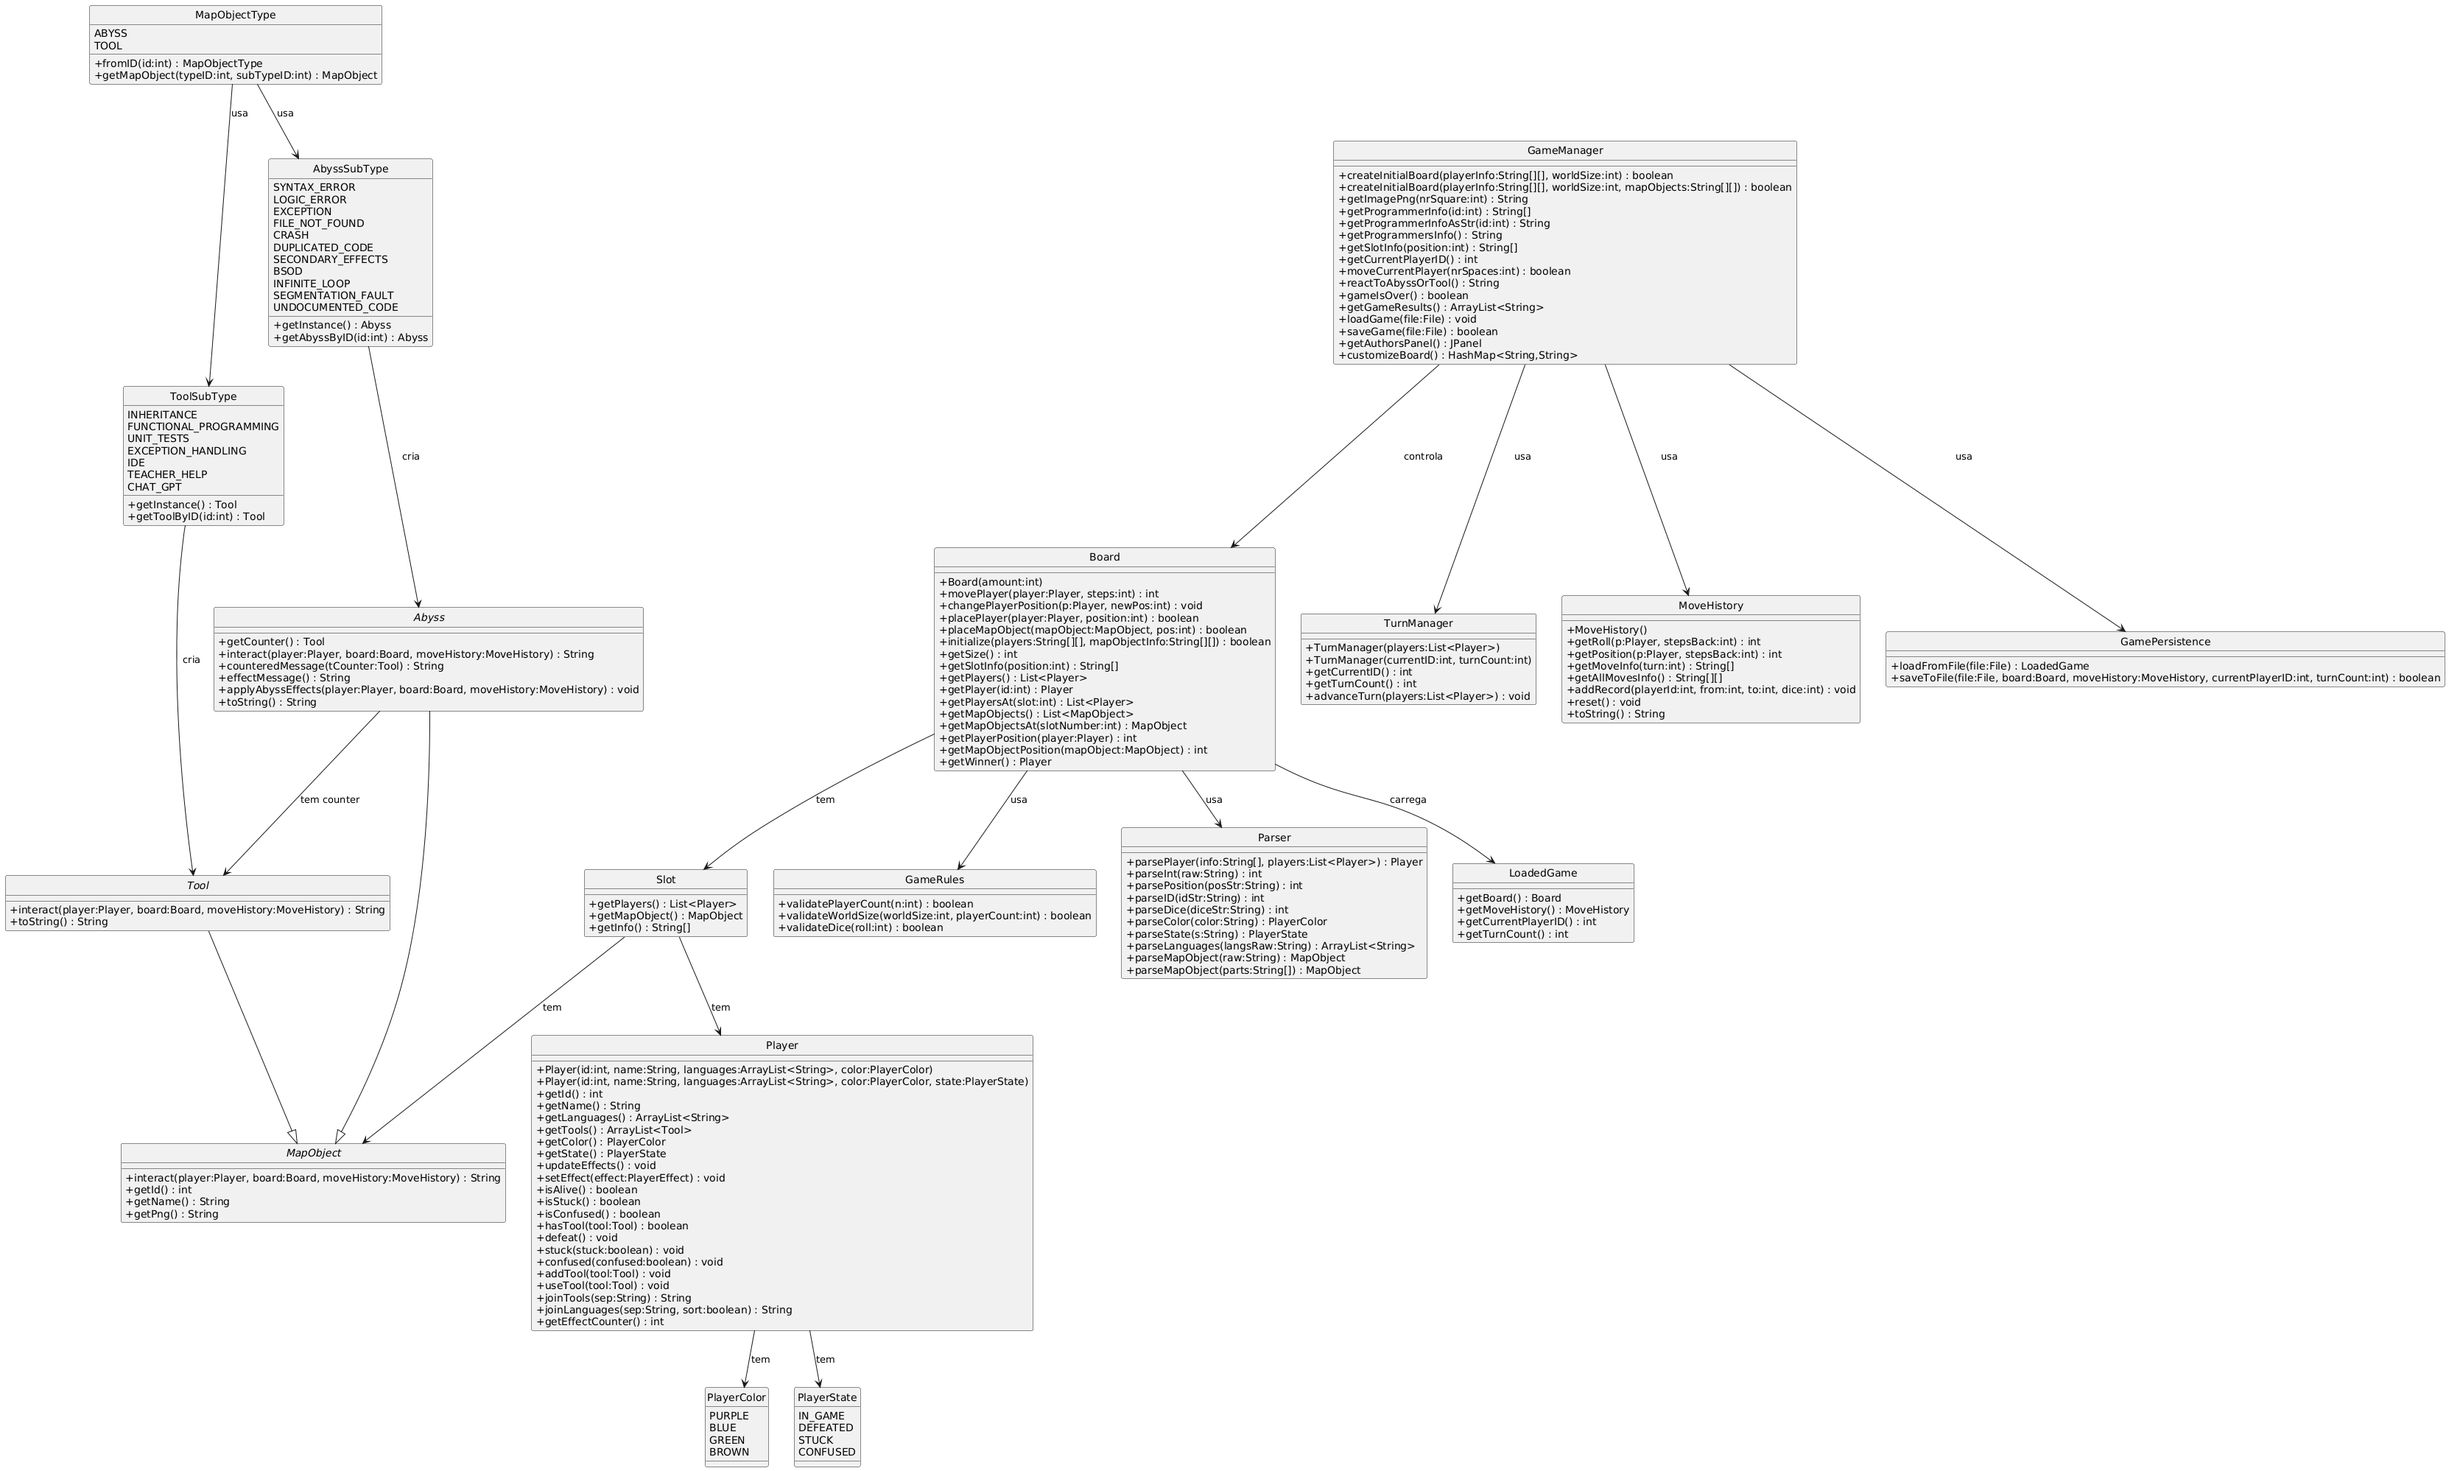
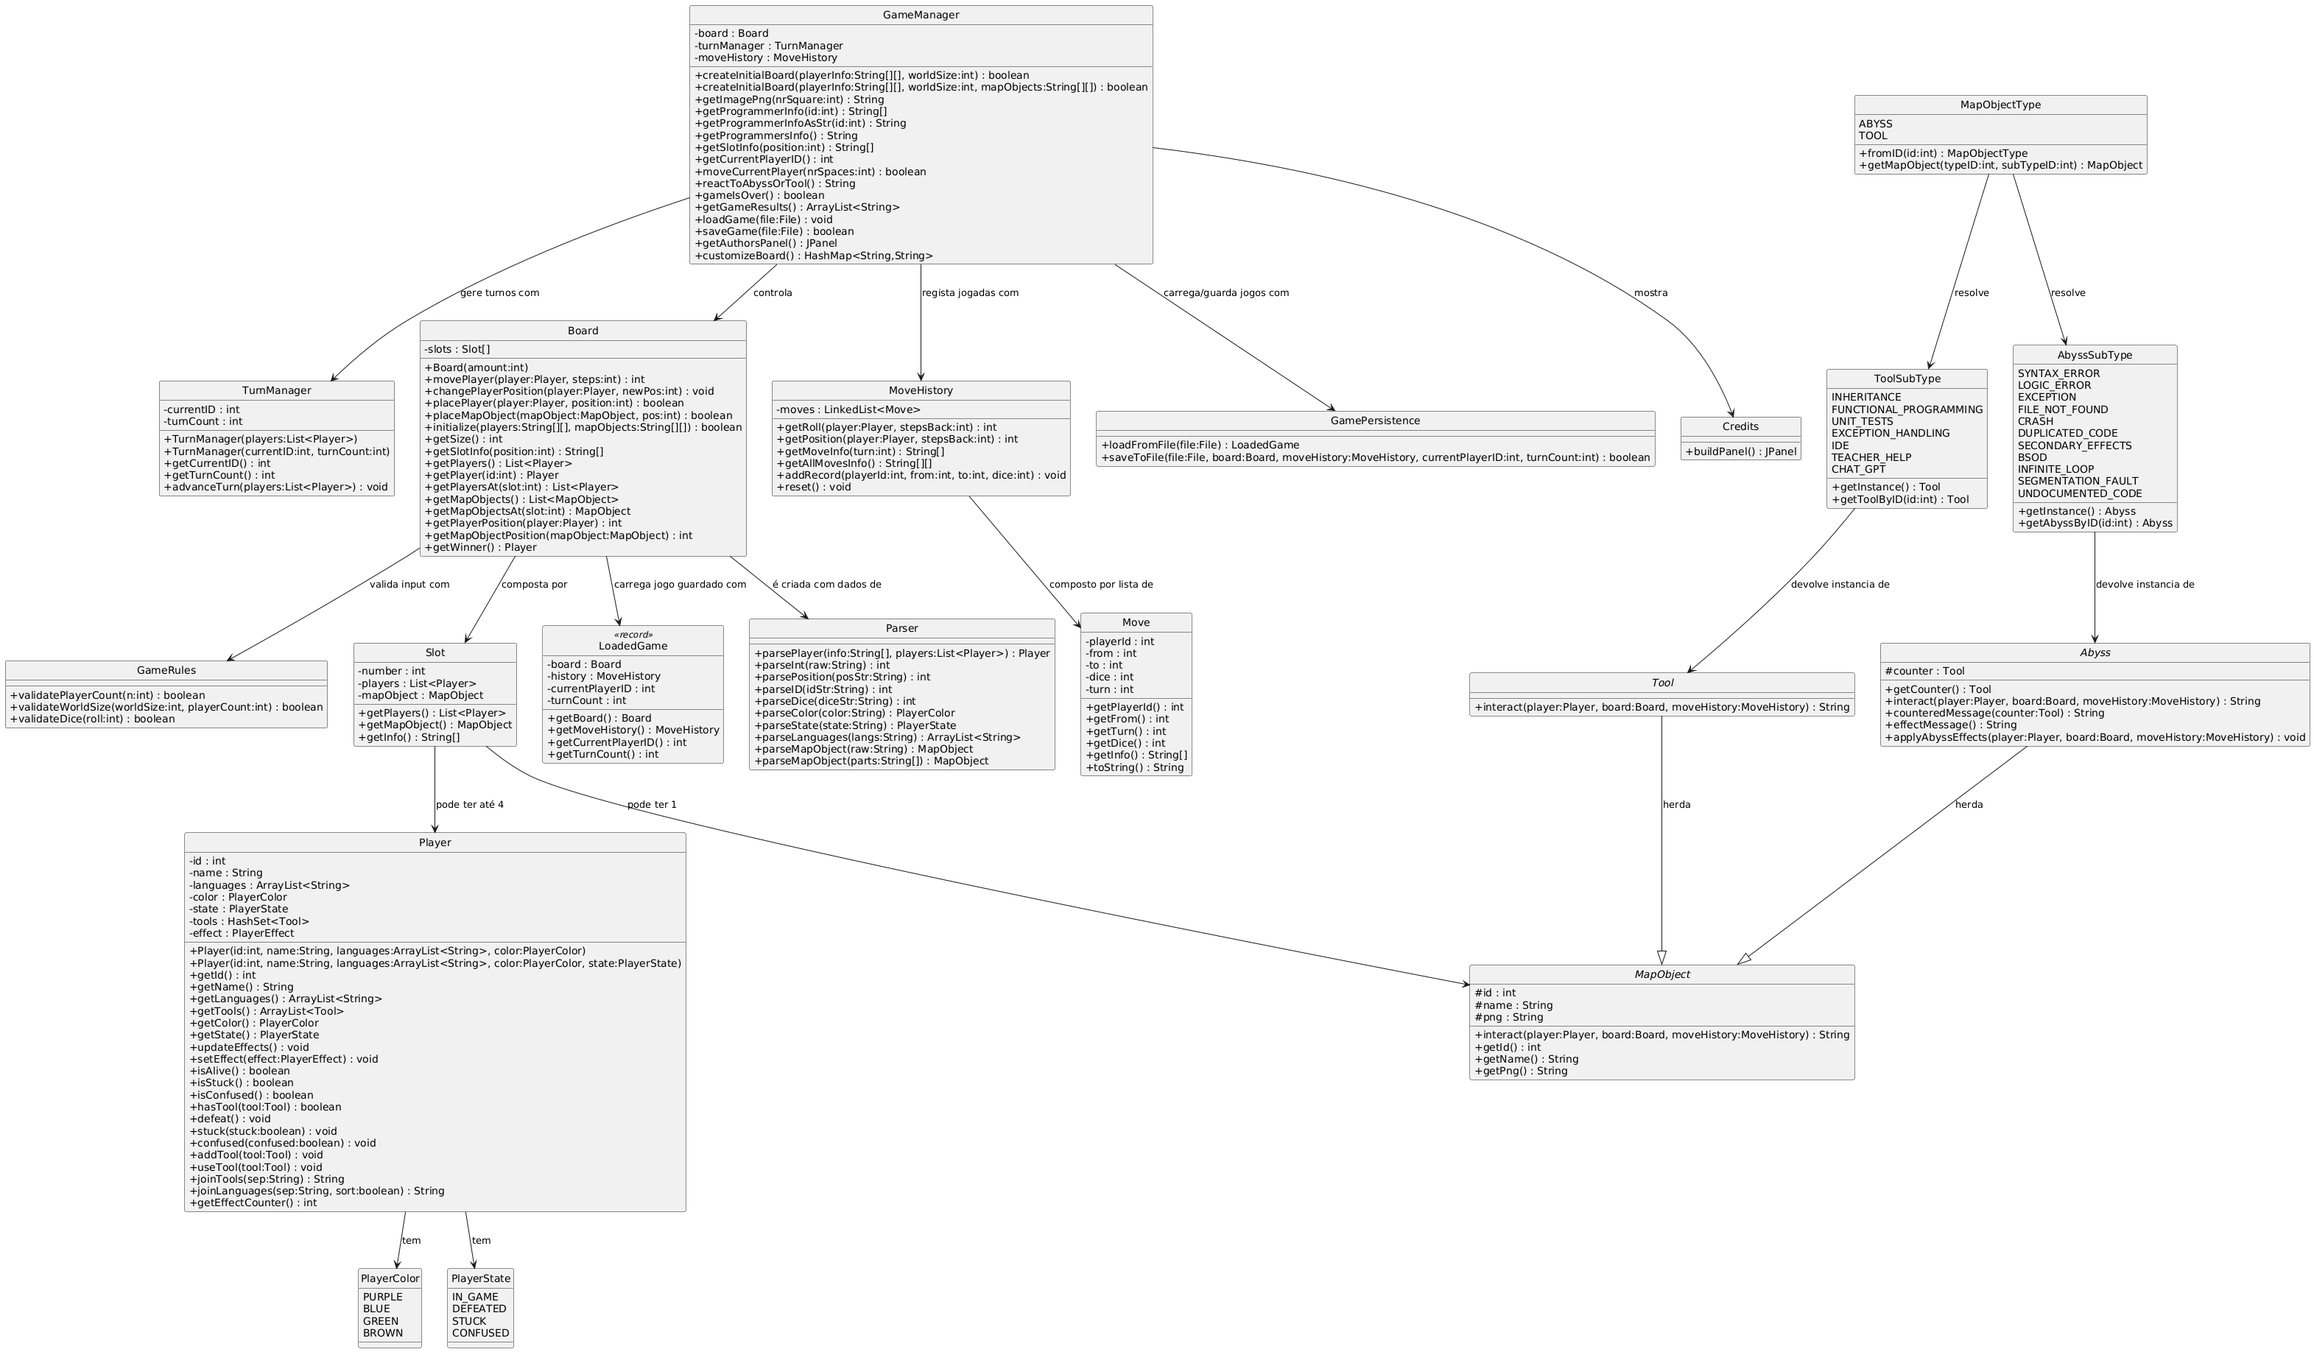
add video, readme, UML

diff --git a/README.md b/README.md
@@ -20,7 +20,7 @@ Demonstração do jogo a correr, incluindo:
 - novo abismo **Undocumented Code** e a ferramenta **ChatGPT**
 
 👉 **Vídeo demo:**  
-https://youtu.be/link
+https://youtu.be/m6JotbGwSIY
 ---
 
 ## 🕳 Novo Abismo: Undocumented Code
@@ -81,6 +81,14 @@ Ferramenta especial que pode ajudar a lidar com problemas inesperados.
 - Introduz incerteza no jogo
 - É sempre consumido quando usado
 - Aumenta o fator estratégico
+
+---
+
+## Personalização do tabuleiro
+
+Personalização definida através do método `customizeBoard()` do `GameManager`:
+
+![Personalização do tabuleiro](personalizacao.png)
 
 ---
 
